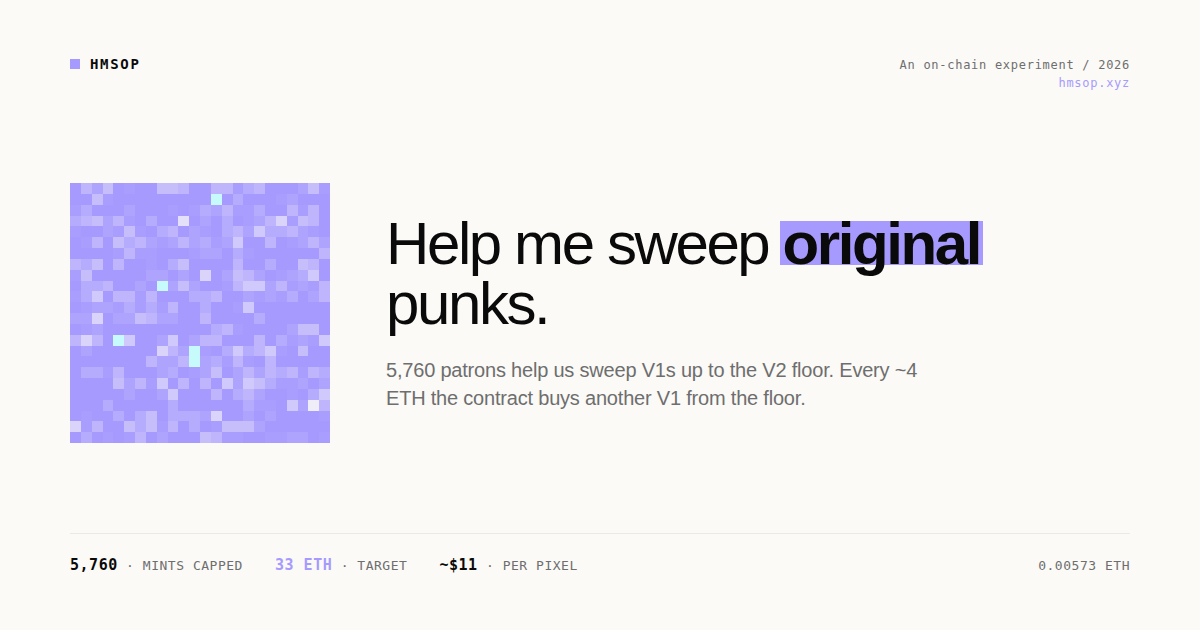
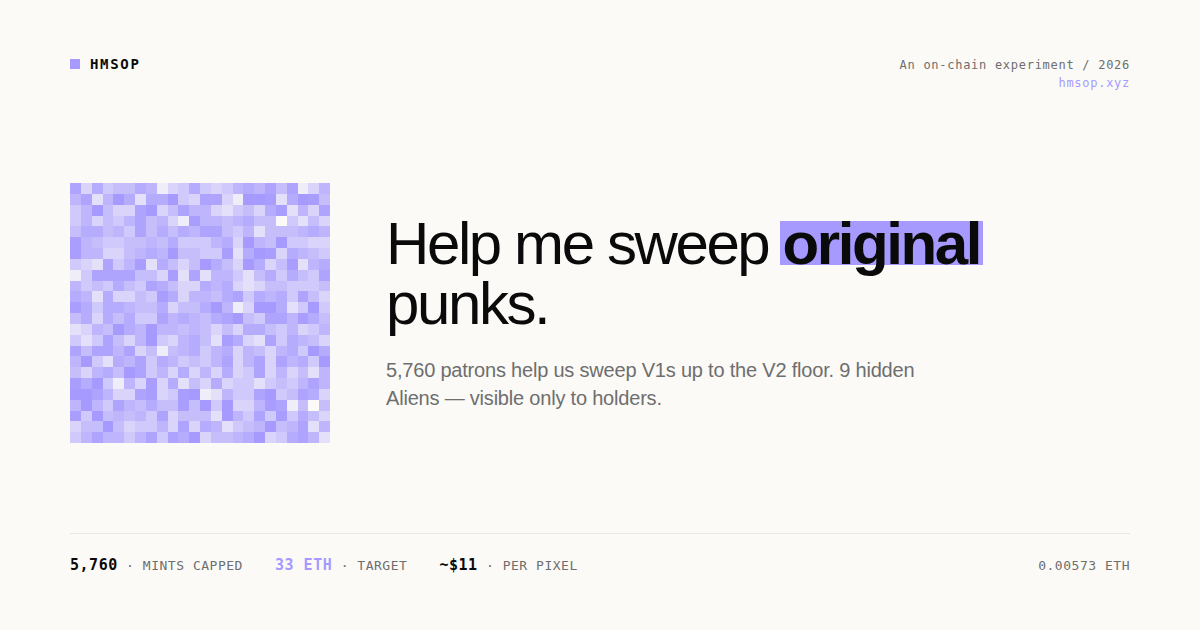
Add files via upload

Changed region(s): [[0.0308, 0.2714, 0.2775, 0.7238], [0.3083, 0.6032, 0.6783, 0.6635], [0.6783, 0.573, 0.7708, 0.6032]]

diff --git a/index.html b/index.html
@@ -4,15 +4,15 @@
 <meta charset="UTF-8" />
 <meta name="viewport" content="width=device-width, initial-scale=1.0" />
 <title>HMSOP — Help me sweep original punks.</title>
-<meta name="description" content="5,760 patrons help sweep V1 CryptoPunks up to the V2 floor. Every ~4 ETH the pool sweeps another V1 from the floor. 9 Alien pixels — matching the 9 V1 Alien punks — chosen at random." />
+<meta name="description" content="5,760 patrons help sweep V1 CryptoPunks up to the V2 floor. Every ~4 ETH the pool sweeps another V1 from the floor. 9 Alien pixels — matching the 9 V1 Alien punks — visible only to Alien-holders." />
 <meta property="og:title" content="HMSOP — Help me sweep original punks." />
-<meta property="og:description" content="5,760 patrons. We sweep V1s continuously up to the V2 floor. 9 Alien pixels — matching the 9 V1 Aliens — chosen at random." />
+<meta property="og:description" content="5,760 patrons. We sweep V1s continuously up to the V2 floor. 9 Alien pixels — visible only to holders." />
 <meta property="og:image" content="/og.png" />
 <meta property="og:url" content="https://hmsop.xyz" />
 <meta property="og:type" content="website" />
 <meta name="twitter:card" content="summary_large_image" />
 <meta name="twitter:title" content="HMSOP — Help me sweep original punks." />
-<meta name="twitter:description" content="5,760 patrons. We sweep V1s continuously up to the V2 floor. 9 Alien pixels chosen at random." />
+<meta name="twitter:description" content="5,760 patrons. We sweep V1s continuously up to the V2 floor. 9 Alien pixels, visible only to holders." />
 <meta name="twitter:image" content="/og.png" />
 <link rel="icon" type="image/svg+xml" href="/favicon.svg" />
 <link rel="preconnect" href="https://fonts.googleapis.com" />
@@ -297,6 +297,13 @@
     color: var(--ink-faint);
   }
   .punk-card svg { width: 70%; height: 70%; }
+  .punk-card img {
+    width: 100%; height: 100%; display: block;
+    /* Preserve pixel art crispness */
+    image-rendering: pixelated;
+    image-rendering: -moz-crisp-edges;
+    image-rendering: crisp-edges;
+  }
   .punk-meta {
     position: absolute;
     bottom: 0; left: 0; right: 0;
@@ -361,6 +368,58 @@
   .stage-lbl .num { color: var(--ink); }
   @media (max-width: 540px) {
     .stages-grid { grid-template-columns: 1fr; gap: 28px; }
+  }
+
+  /* ============================================ TWO VIEWS ============================================ */
+  .views { margin: var(--space-xxl) 0; }
+  .views-head { margin-bottom: var(--space-md); max-width: 36ch; }
+  .views-eyebrow {
+    font-size: 10.5px; color: var(--ink-mid);
+    letter-spacing: 0.08em; text-transform: uppercase;
+    font-weight: 500; font-family: 'JetBrains Mono', monospace;
+    margin-bottom: 14px;
+  }
+  .views-title {
+    font-size: clamp(22px, 2.8vw, 30px);
+    font-weight: 500; letter-spacing: -0.025em;
+    line-height: 1.15;
+    margin-bottom: 18px;
+  }
+  .views-title .lav-text { color: var(--lav); }
+  .views-sub {
+    font-size: clamp(14px, 1.4vw, 16px);
+    color: var(--ink-mid); line-height: 1.55;
+    max-width: 48ch;
+  }
+  .views-sub strong { color: var(--ink); font-weight: 500; }
+  .views-grid {
+    display: grid;
+    grid-template-columns: repeat(2, 1fr);
+    gap: clamp(14px, 2.5vw, 24px);
+  }
+  .view-tile { display: flex; flex-direction: column; gap: 14px; }
+  .view-art { aspect-ratio: 1; background: var(--bg); }
+  .view-art svg { width: 100%; height: 100%; display: block; }
+  .view-lbl {
+    display: flex; align-items: center; gap: 10px; flex-wrap: wrap;
+  }
+  .view-tag {
+    font-family: 'JetBrains Mono', monospace; font-size: 10px;
+    font-weight: 600; letter-spacing: 0.08em;
+    padding: 3px 8px;
+    background: var(--ink); color: var(--bg);
+    text-transform: uppercase;
+  }
+  .view-tag.holder {
+    background: var(--ink); color: var(--alien);
+  }
+  .view-desc {
+    font-size: 10.5px; color: var(--ink-mid);
+    letter-spacing: 0.04em; text-transform: uppercase;
+    font-weight: 500; font-family: 'JetBrains Mono', monospace;
+  }
+  @media (max-width: 540px) {
+    .views-grid { grid-template-columns: 1fr; gap: 24px; }
   }
 
   /* ============================================ STATEMENTS ============================================ */
@@ -590,7 +649,7 @@
   <!-- STATS — V1s swept is now front and centre -->
   <div class="stats reveal">
     <div class="stat">
-      <div class="stat-num accent" id="raised">4.852</div>
+      <div class="stat-num" id="raised">4.852</div>
       <div class="stat-lbl">ETH raised / 33</div>
     </div>
     <div class="stat">
@@ -598,11 +657,11 @@
       <div class="stat-lbl">Mints / 5,760</div>
     </div>
     <div class="stat">
-      <div class="stat-num accent" id="v1s-swept">1</div>
+      <div class="stat-num" id="v1s-swept">1</div>
       <div class="stat-lbl">V1s swept</div>
     </div>
     <div class="stat">
-      <div class="stat-num bug-stat" id="aliens-stat"><span class="bug-dot"></span><span id="alien-count">1</span></div>
+      <div class="stat-num" id="alien-count">1</div>
       <div class="stat-lbl">Aliens claimed / 9</div>
     </div>
   </div>
@@ -664,6 +723,31 @@
       </div>
     </div>
   </section>
+
+  <!-- TWO VIEWS — public vs alien-holder -->
+  <section class="views">
+    <div class="views-head">
+      <div class="views-eyebrow">— Two views</div>
+      <h2 class="views-title">Aliens are <span class="lav-text">invisible</span> to everyone except&nbsp;holders.</h2>
+      <p class="views-sub">The canvas the public sees is pure lavender. <strong>If you mint an Alien</strong>, your token reveals every Alien minted before yours — cyan, a view that only Alien-holders' tokens&nbsp;possess.</p>
+    </div>
+    <div class="views-grid">
+      <div class="view-tile">
+        <div class="view-art"><svg id="view-public" viewBox="0 0 240 240" shape-rendering="crispEdges"></svg></div>
+        <div class="view-lbl">
+          <span class="view-tag">PUBLIC</span>
+          <span class="view-desc">What everyone&nbsp;sees</span>
+        </div>
+      </div>
+      <div class="view-tile">
+        <div class="view-art"><svg id="view-holder" viewBox="0 0 240 240" shape-rendering="crispEdges"></svg></div>
+        <div class="view-lbl">
+          <span class="view-tag holder">ALIEN&nbsp;HOLDER</span>
+          <span class="view-desc">9 cyan pixels, the&nbsp;collective</span>
+        </div>
+      </div>
+    </div>
+  </section>
 </div>
 
 <!-- BUG SECTION -->
@@ -676,7 +760,7 @@
     </p>
     <div class="bug-rule">
       <span class="arrow">→</span>
-      <span>Every mint has a <strong>1-in-640 chance</strong> of placing an <strong>Alien&nbsp;pixel</strong> — pale cyan, like the <strong>9 Alien punks</strong> in the V1&nbsp;collection. ~9 will exist at full&nbsp;mint. You can't choose to mint one. The bug chooses&nbsp;you.</span>
+      <span>Every mint has a <strong>1-in-640 chance</strong> of placing an <strong>Alien&nbsp;pixel</strong> — pale cyan, like the <strong>9 Alien punks</strong> in the V1&nbsp;collection. ~9 will exist at full&nbsp;mint. <strong>Visible only on Alien-holders' tokens.</strong> You can't choose to mint one. The bug chooses&nbsp;you.</span>
     </div>
   </div>
 </section>
@@ -706,13 +790,13 @@
     <div class="statement">
       <div class="statement-num">04 — The Aliens</div>
       <div class="statement-text"><span class="bug-square"></span> pixels are rare. 9 in 5,760.</div>
-      <div class="statement-sub">Each mint has a 1-in-640 chance of becoming an Alien — rendered in <strong>cyan</strong>, the same shade as the background of the <strong>9 Alien CryptoPunks</strong> in the original collection. ~9 will exist at full mint. Aliens are tagged in the patron ticker as <code style="font-family:'JetBrains Mono',monospace;font-size:0.9em;background:rgba(0,0,0,0.05);padding:1px 5px;">[ALIEN]</code>. You can't mint one on purpose. The bug chooses&nbsp;you.</div>
+      <div class="statement-sub">Each mint has a 1-in-640 chance of becoming an Alien — rendered in <strong>cyan</strong>, the same shade as the background of the <strong>9 Alien CryptoPunks</strong> in the original collection. ~9 will exist at full mint. Aliens are tagged in the patron ticker as <code style="font-family:'JetBrains Mono',monospace;font-size:0.9em;background:rgba(0,0,0,0.05);padding:1px 5px;">[ALIEN]</code>. <strong>Only Alien-holders' tokens reveal Aliens.</strong> Every Alien minted before yours appears on your token in cyan. Non-Alien tokens show pure lavender. You can't choose to mint one. The bug chooses&nbsp;you.</div>
     </div>
 
     <div class="statement">
       <div class="statement-num">05 — Your NFT</div>
       <div class="statement-text">Your token is the canvas at the block you minted.</div>
-      <div class="statement-sub">A snapshot. With your pixel marked. Patron #1's piece shows a near-empty canvas. Patron #5,760's piece shows the finished portrait. <strong>5,760 unique moments of the same artwork's becoming.</strong> All on-chain SVG — no IPFS, no external dependency. The token also stores your @handle and whether you got an&nbsp;Alien.</div>
+      <div class="statement-sub">A snapshot. With your pixel marked. Patron #1's piece shows a near-empty canvas. Patron #5,760's piece shows the finished portrait. <strong>5,760 unique moments of the same artwork's becoming.</strong> All on-chain SVG — no IPFS, no external dependency. The token stores your @handle and whether you got an Alien. <strong>If you did, your token shows every Alien minted before yours in&nbsp;cyan.</strong> Other tokens show pure&nbsp;lavender.</div>
     </div>
 
     <div class="statement">
@@ -771,7 +855,7 @@
         <div class="row divider"><span>Status</span><span id="confirm-status">Waiting for wallet…</span></div>
       </div>
       <p class="modal-fine">
-        Once the transaction is mined, your pixel is placed and your NFT mints automatically. If you get an Alien — congratulations. The chance was 1 in 640.
+        Once the transaction is mined, your pixel is placed and your NFT mints automatically. If you get an Alien — congratulations. Your token unlocks the holder view. The chance was 1 in&nbsp;640.
       </p>
     </div>
   </div>
@@ -864,15 +948,17 @@ function buildStateAt(sequence, n) {
 // =================================================================
 const CELL = 240 / GRID;
 
-function renderState({ counts, aliens }) {
+function renderState({ counts, aliens }, showAliens = false) {
   let svg = '';
   for (let i = 0; i < TOTAL; i++) {
     if (counts[i] === 0) continue;
     const x = (i % GRID) * CELL;
     const y = Math.floor(i / GRID) * CELL;
-    if (aliens[i]) {
+    if (aliens[i] && showAliens) {
       svg += `<rect x="${x}" y="${y}" width="${CELL}" height="${CELL}" fill="${ALIEN_COLOR}"/>`;
     } else {
+      // Public (non-holder) view: alien cells render as their normal lavender
+      // shade — invisible from the alien rare trait. Only alien-holders see cyan.
       svg += `<rect x="${x}" y="${y}" width="${CELL}" height="${CELL}" fill="${SHADES[counts[i] - 1]}"/>`;
     }
   }
@@ -942,6 +1028,13 @@ document.getElementById('stage-2').innerHTML = renderState(buildStateAt(HERO_SEQ
 document.getElementById('stage-3').innerHTML = renderState(buildStateAt(HERO_SEQ, 5760));
 
 // =================================================================
+// TWO VIEWS — public vs alien-holder, same canvas state
+// =================================================================
+const viewState = buildStateAt(HERO_SEQ, 5760);
+document.getElementById('view-public').innerHTML = renderState(viewState, false);
+document.getElementById('view-holder').innerHTML = renderState(viewState, true);
+
+// =================================================================
 // CURRENT REAL STATE (demo — wired up via contract reads in production)
 // =================================================================
 const REAL_MINTS = 847;
@@ -968,8 +1061,10 @@ setTimeout(() => {
 // For this static landing, we show one example sweep + placeholders.
 // =================================================================
 const SWEPT_V1S = [
-  // Example: first V1 swept
-  { id: 2891, priceEth: 4.18, timestamp: '2d ago' },
+  // First V1 swept — friend's punk. In production this populates from
+  // V1Acquired contract events. The imageUrl will come from the V1
+  // wrapper's tokenURI metadata. TODO: update id when real punk is swept.
+  { id: 2891, priceEth: 4.18, timestamp: '2d ago', imageUrl: '/kenny.png' },
 ];
 const SWEPT_TARGET_DISPLAY = 8;  // visual placeholder count
 
@@ -977,15 +1072,14 @@ function renderSweptGallery() {
   const grid = document.getElementById('swept-grid');
   let html = '';
 
-  // Real swept V1s
+  // Real swept V1s — use image if available, otherwise procedural portrait
   for (const v of SWEPT_V1S) {
-    // Tiny abstract pixel-portrait placeholder (the real art renders
-    // from V1 wrapper metadata in production). We seed it from the
-    // V1 ID so it's stable per punk.
-    const portrait = generatePortrait(v.id);
+    const visual = v.imageUrl
+      ? `<img src="${v.imageUrl}" alt="V1 CryptoPunk #${v.id}" loading="lazy" />`
+      : generatePortrait(v.id);
     html += `
       <div class="punk-card">
-        ${portrait}
+        ${visual}
         <div class="punk-meta">
           <span class="id">V1 #${v.id}</span>
           <span class="price">${v.priceEth} ETH</span>

diff --git a/README.md b/README.md
@@ -26,6 +26,7 @@ vercel --prod
 - `index.html` — landing page, self-contained
 - `favicon.svg` — favicon (solid V1 lavender pixel)
 - `og.png` — 1200×630 share card
+- `kenny.png` — placeholder image of the first swept V1 (replace with on-chain V1 metadata in production)
 - `vercel.json` — config
 
 ## Update before going live
